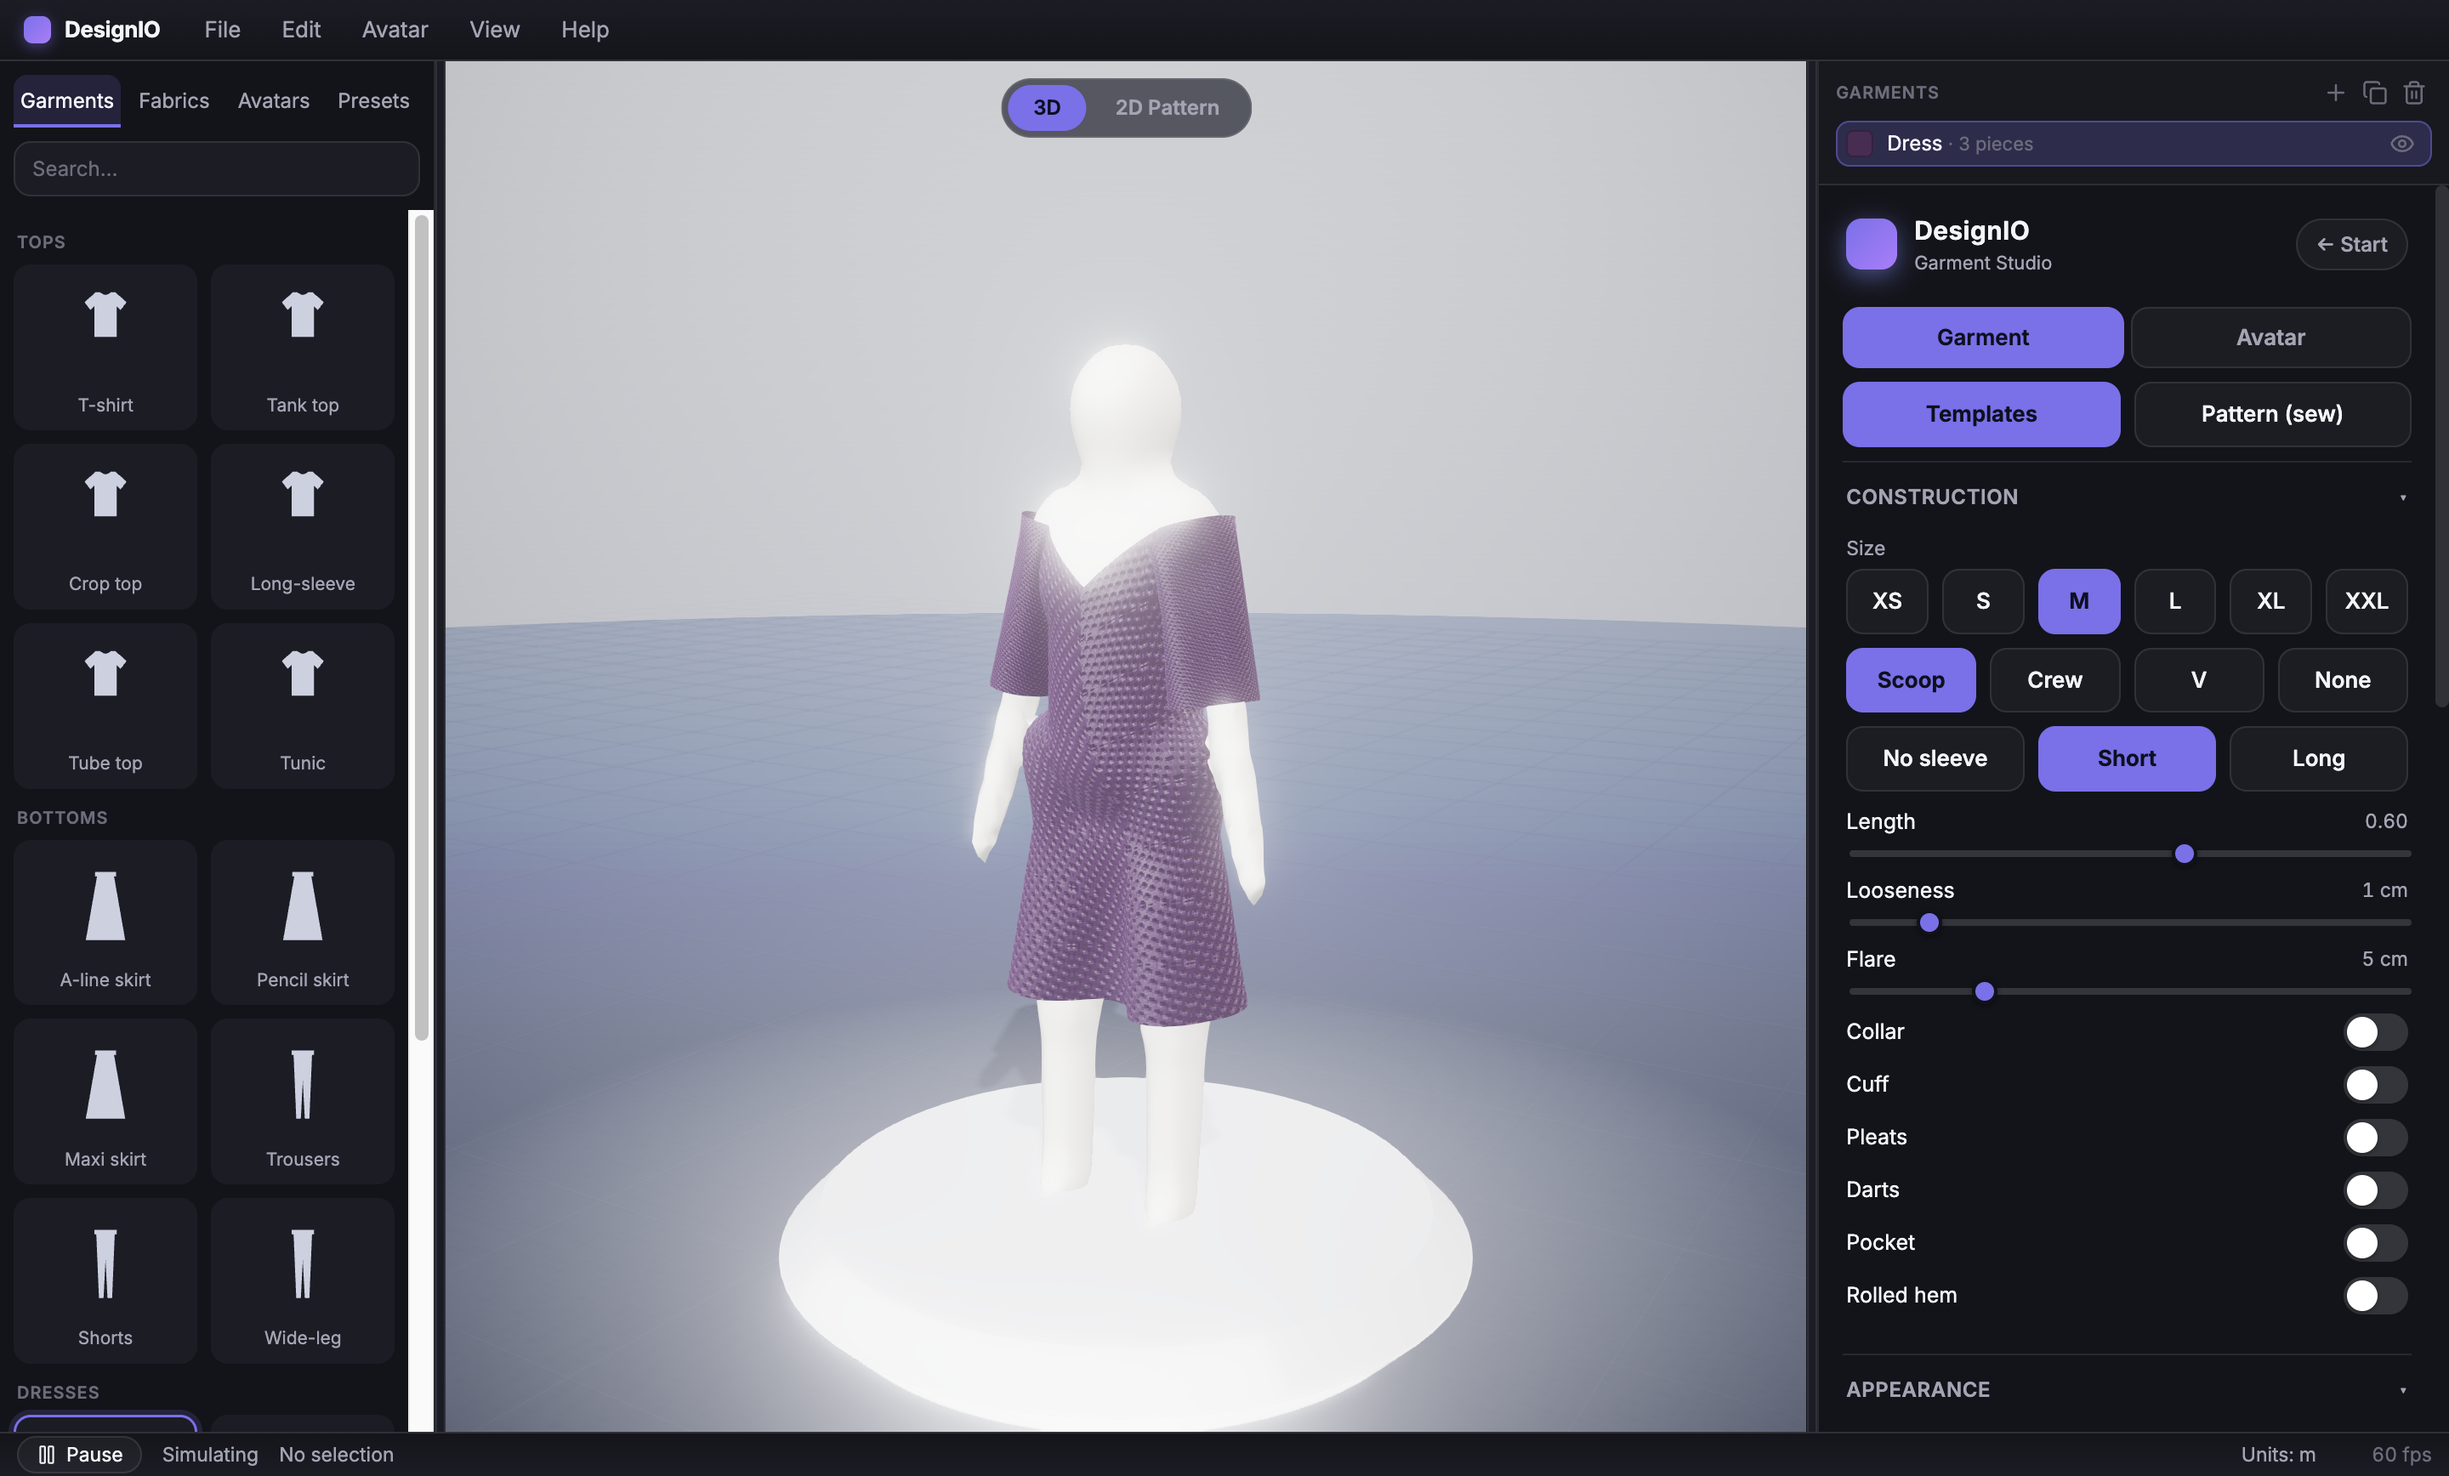
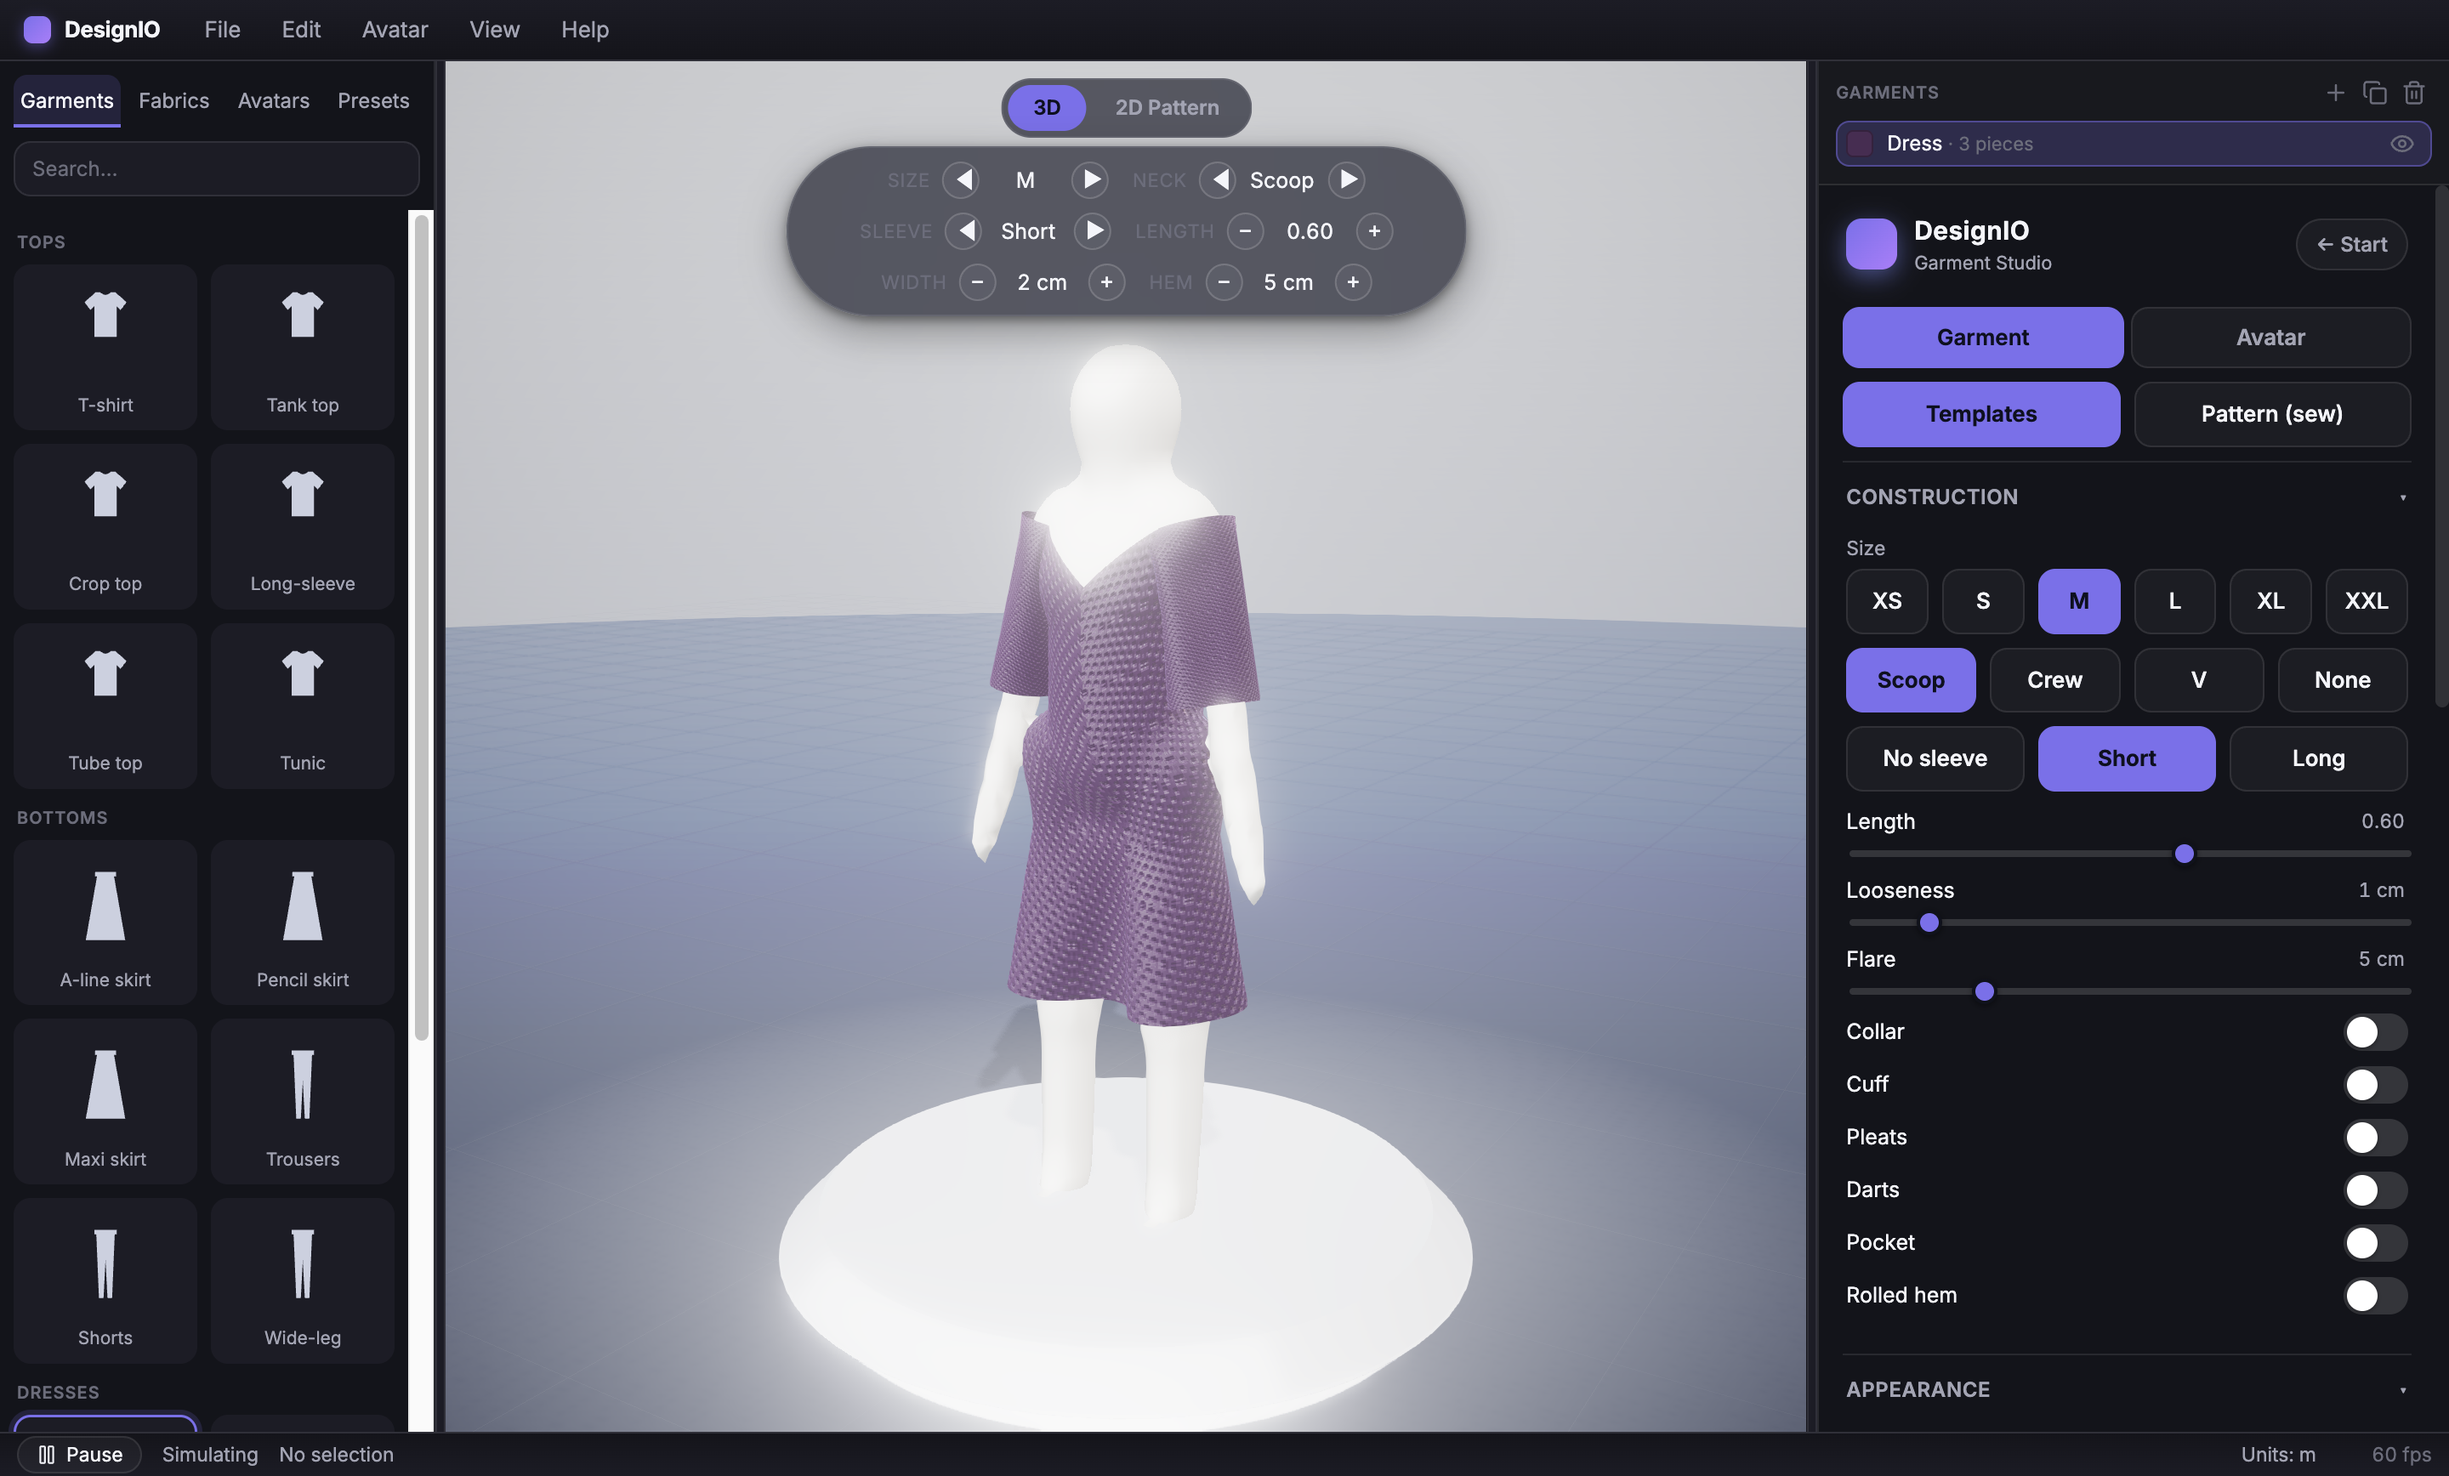
Docs + README images: quick toolbar over both views + click-to-type sliders

Changed region(s): [[0.3125, 0.0933, 0.625, 0.2488]]

diff --git a/src/renderer/ui/panel.ts b/src/renderer/ui/panel.ts
@@ -79,7 +79,9 @@ export interface PanelOptions {
   onBack?: () => void
 }
 
-/** A friendly custom control panel: design mode, garment/pattern, fabric, physics. */
+/** A friendly custom control panel: design mode, garment/pattern, fabric, physics.
+ * Every slider readout is click-to-type (exact values); a quick-edit toolbar over
+ * the viewport mirrors the key controls in both 3D and 2D. */
 /** Selection hooks the Library uses so it drives the same state as the panel. */
 export interface PanelApi {
   selectGarment: (id: string) => void

diff --git a/CLAUDE.md b/CLAUDE.md
@@ -82,9 +82,9 @@ Renderer modules:
   (dockable menu-bar / Library / viewport / dock / status-bar regions), `menuBar` (File: New · Open/Save
   `.dio` project · Exports; Edit: undo/redo · cut/copy/paste/duplicate/delete garment), `statusBar`,
   `library` (tabbed asset browser), `objectBrowser` (the **garment layers** worn on the body — select ·
-  visibility · add/duplicate/delete), `centerTabs` (3D · 2D-pattern dual viewport — the **2D pane is an
-  editing surface**: size/length/width/hem tools run the same `applyGarmentEdit` path as the 3D panel,
-  so 2D↔3D stay in sync), `layoutStore`.
+  visibility · add/duplicate/delete), `centerTabs` (3D · 2D-pattern dual viewport + a **persistent
+  quick-edit toolbar over both** — size/neckline/sleeve/length/width/hem `PatternEditor` steppers that run
+  the same `applyGarmentEdit` path, so 2D↔3D stay in sync), `layoutStore`.
 - `ui/` — `panel` (the **context-sensitive Property Editor** — Garment/Avatar/Scene; returns `{panel, api}`
   the Library drives), `controls` (DOM helpers), `thumbnails` (shared swatch/silhouette), `patternSchematic`,
   `tokens.css` / `styles.css` / `shell.css`.

diff --git a/README.md b/README.md
@@ -125,9 +125,10 @@ A-line skirt/dress panels, tapered trouser legs, and a shaped sleeve, each with 
 and notches**. It's derived from the exact 3D construction, so 2D and 3D always agree. Export it as **SVG /
 DXF** for a cutter.
 
-**2D and 3D are one design — edit either way.** The 2D pane isn't just a render: it carries live edit tools
-(**size · length · width · hem**) that drive the same garment, so you can design entirely in 2D and the 3D
-updates live (and vice-versa). If you don't want to touch 3D, you don't have to.
+**2D and 3D are one design — edit either way.** A quick-edit toolbar floats over **both** the 3D and 2D
+views (**size · neckline · sleeve · length · width · hem**), driving the same garment — so you can design
+entirely in 2D *or* 3D and the other updates live. Every slider value is **click-to-type** for exact,
+artist-grade numbers. If you don't want to touch 3D, you don't have to.
 
 ![The editable 2D flat pattern — size / length / width / hem tools drive the 3D](docs/pattern-2d.png)
 
